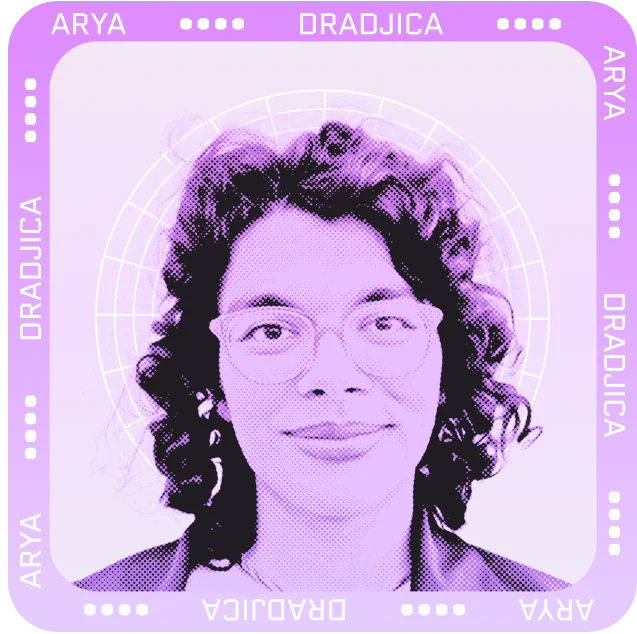
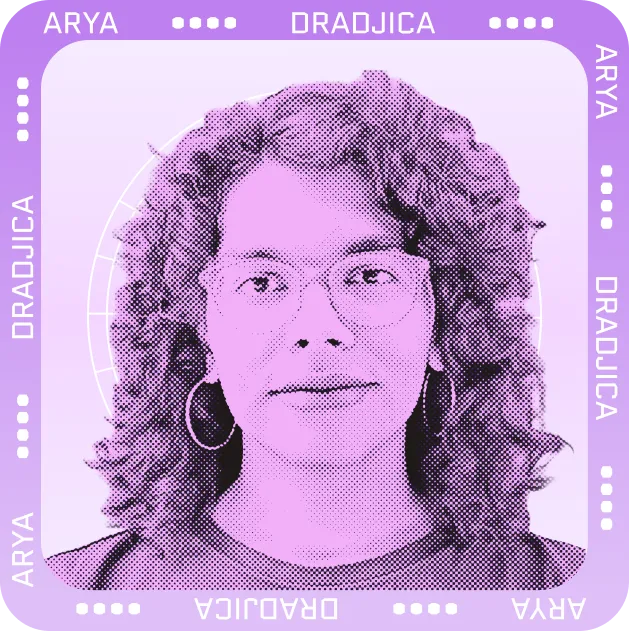
update Arya Dradjicas speaker details

diff --git a/templates/talk.html b/templates/talk.html
@@ -93,6 +93,17 @@
                           /></a>
                         </li>
                       {% endif %}
+                      {% if speaker.extra.codeberg %}
+                        <li>
+                          <a
+                            href="{{ speaker.extra.codeberg }}"
+                            target="_blank"
+                            rel="noopener noreferrer"
+                            class="btn__icon"
+                            ><img src="/images/icons/codeberg.svg" alt="Codeberg"
+                          /></a>
+                        </li>
+                      {% endif %}
                       {% if speaker.extra.url %}
                         <li>
                           <a href="{{ speaker.extra.url }}" target="_blank" rel="noopener noreferrer" class="btn__icon"

diff --git a/templates/sections/speakers.html b/templates/sections/speakers.html
@@ -82,6 +82,13 @@
                 /></a>
               </li>
             {% endif %}
+            {% if speaker.extra.codeberg %}
+              <li>
+                <a class="btn__icon" href="{{ speaker.extra.codeberg }}" target="_blank" rel="noopener noreferrer"
+                  ><img src="/images/icons/codeberg.svg" alt="Codeberg" width="42" height="42"
+                /></a>
+              </li>
+            {% endif %}
           </ul>
         {% endfor %}
       </li>

diff --git a/content/speakers/arya-dradjica.md b/content/speakers/arya-dradjica.md
@@ -4,10 +4,11 @@ title = "Speaker: Arya Dradjica"
 [extra]
   name = "Arya Dradjica"
   role = "Optimization and compiler nerd"
+  codeberg = "https://codeberg.org/bal-e"
   github = ""
-  mastodon = ""
+  mastodon = "https://tech.lgbt/@bal4e"
   image = "/images/talks/arya-dradjica.webp"
   twitter = ""
-  url = "https://bal-e.org"
+  url = "https://bal-e.org/"
   bio = "<p>As a programmer, Arya's motto is that things can always be better. Having started out with C and C++, she fell in love with Rust a few years ago and hasn't looked back. She's interested in compiler architecture, optimization, networking, and cryptography.</p><p>By day, she works as a software engineer at NLnet Labs, building open-source Rust-based DNS products. On the side, she's trying to design a high-performance Rust compiler.</p>"
 +++
